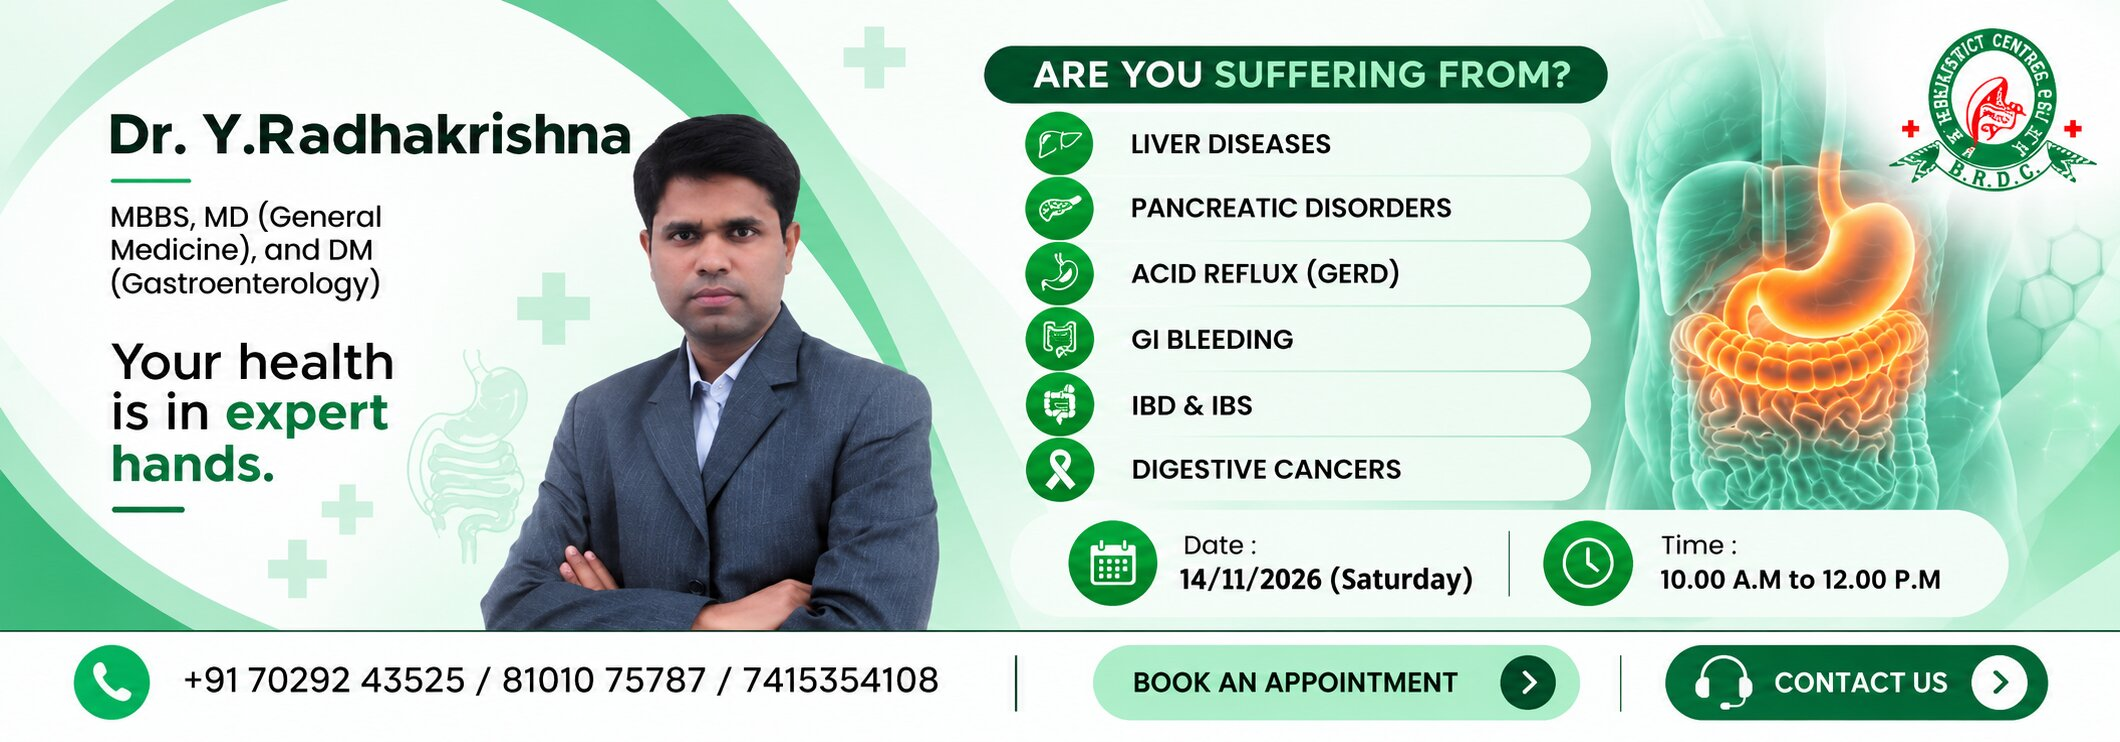
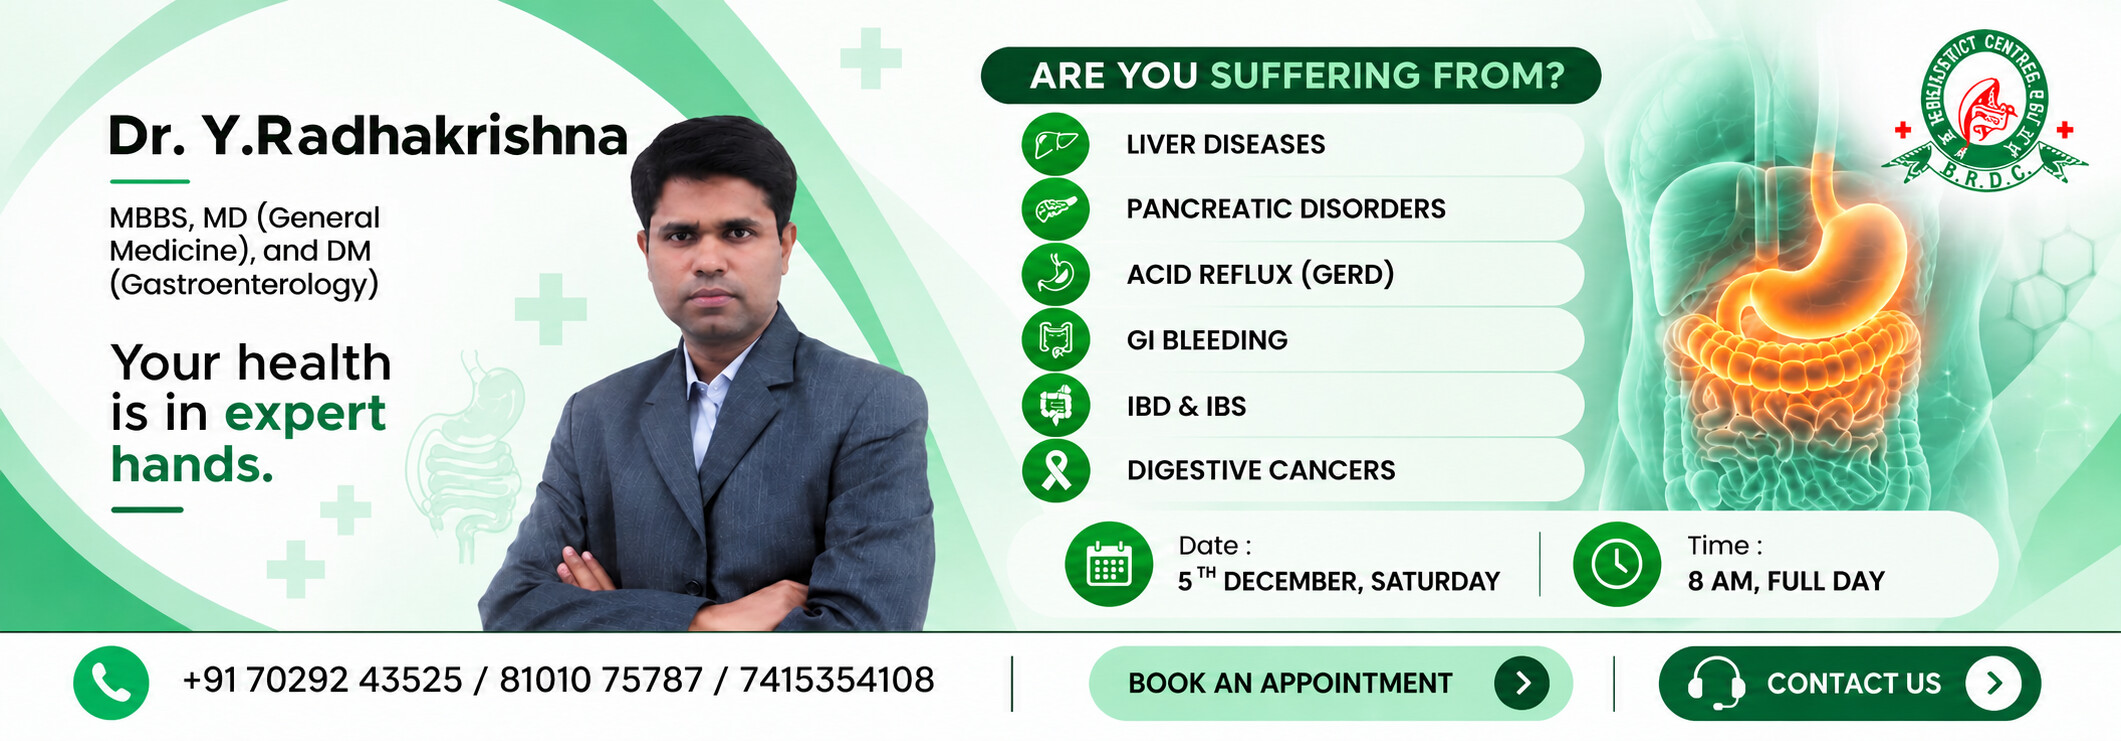
Update consultation dates for Dr. Kundan Kumar and Dr. Y. Radhakrishna; disable profiles for Dr. Chayan Kumar Roy and Dr. Kunal Haldar

diff --git a/src/app/data/doctorsData.js b/src/app/data/doctorsData.js
@@ -468,13 +468,13 @@ export const detailedDoctors = [
       city: "Malda, West Bengal",
     },
     appointment: {
-      date: "14/11/2026",
+      date: "05/12/2026",
       time: "08:30 AM to 10:30 AM",
-      displayDate: "14/11/2026 (Saturday)",
+      displayDate: "05/12/2026 (Saturday)",
     },
     notice: {
       title: "Special Consultation Camp at Malda",
-      text: "Dr. Kundan Kumar will be available for consultation at B.R Diagnostic Center, Malda on <strong>14/11/2026 (Saturday)</strong> from <strong>8:30 AM onwards</strong>. Book your slot now!",
+      text: "Dr. Kundan Kumar will be available for consultation at B.R Diagnostic Center, Malda on <strong>05/12/2026 (Saturday)</strong> from <strong>8:30 AM onwards</strong>. Book your slot now!",
     },
     appointmentTypes: [
       { value: "", label: "Select Type" },
@@ -543,13 +543,13 @@ export const detailedDoctors = [
       city: "Malda, West Bengal",
     },
     appointment: {
-      date: "14/11/2026",
+      date: "05/12/2026",
       time: "08:00 AM onwards",
-      displayDate: "14/11/2026 (Saturday)",
+      displayDate: "05/12/2026 (Saturday)",
     },
     notice: {
       title: "Special Consultation Camp at Malda",
-      text: "Dr. Y. Radhakrishna will be available for consultation at B.R Diagnostic Center, Malda on <strong>14/11/2026 (Saturday)</strong>. Book your slot now!",
+      text: "Dr. Y. Radhakrishna will be available for consultation at B.R Diagnostic Center, Malda on <strong>05/12/2026 (Saturday)</strong>. Book your slot now!",
     },
     appointmentTypes: [
       { value: "", label: "Select Type" },
@@ -602,6 +602,7 @@ export const detailedDoctors = [
 
   {
     slug: "dr-chayan-kumar-roy",
+    disabled: true,
     name: "Dr. Chayan Kumar Roy",
     displayName: "DR. CHAYAN KUMAR ROY",
     specialty: "GASTROENTEROLOGIST",
@@ -1079,6 +1080,7 @@ export const detailedDoctors = [
   // Kunal Haldar
   {
     slug: "dr-kunal-haldar",
+    disabled: true,
     name: "Dr. Kunal Haldar",
     displayName: "DR. KUNAL HALDAR",
     specialty: "CONSULTANT NEPHROLOGIST",
